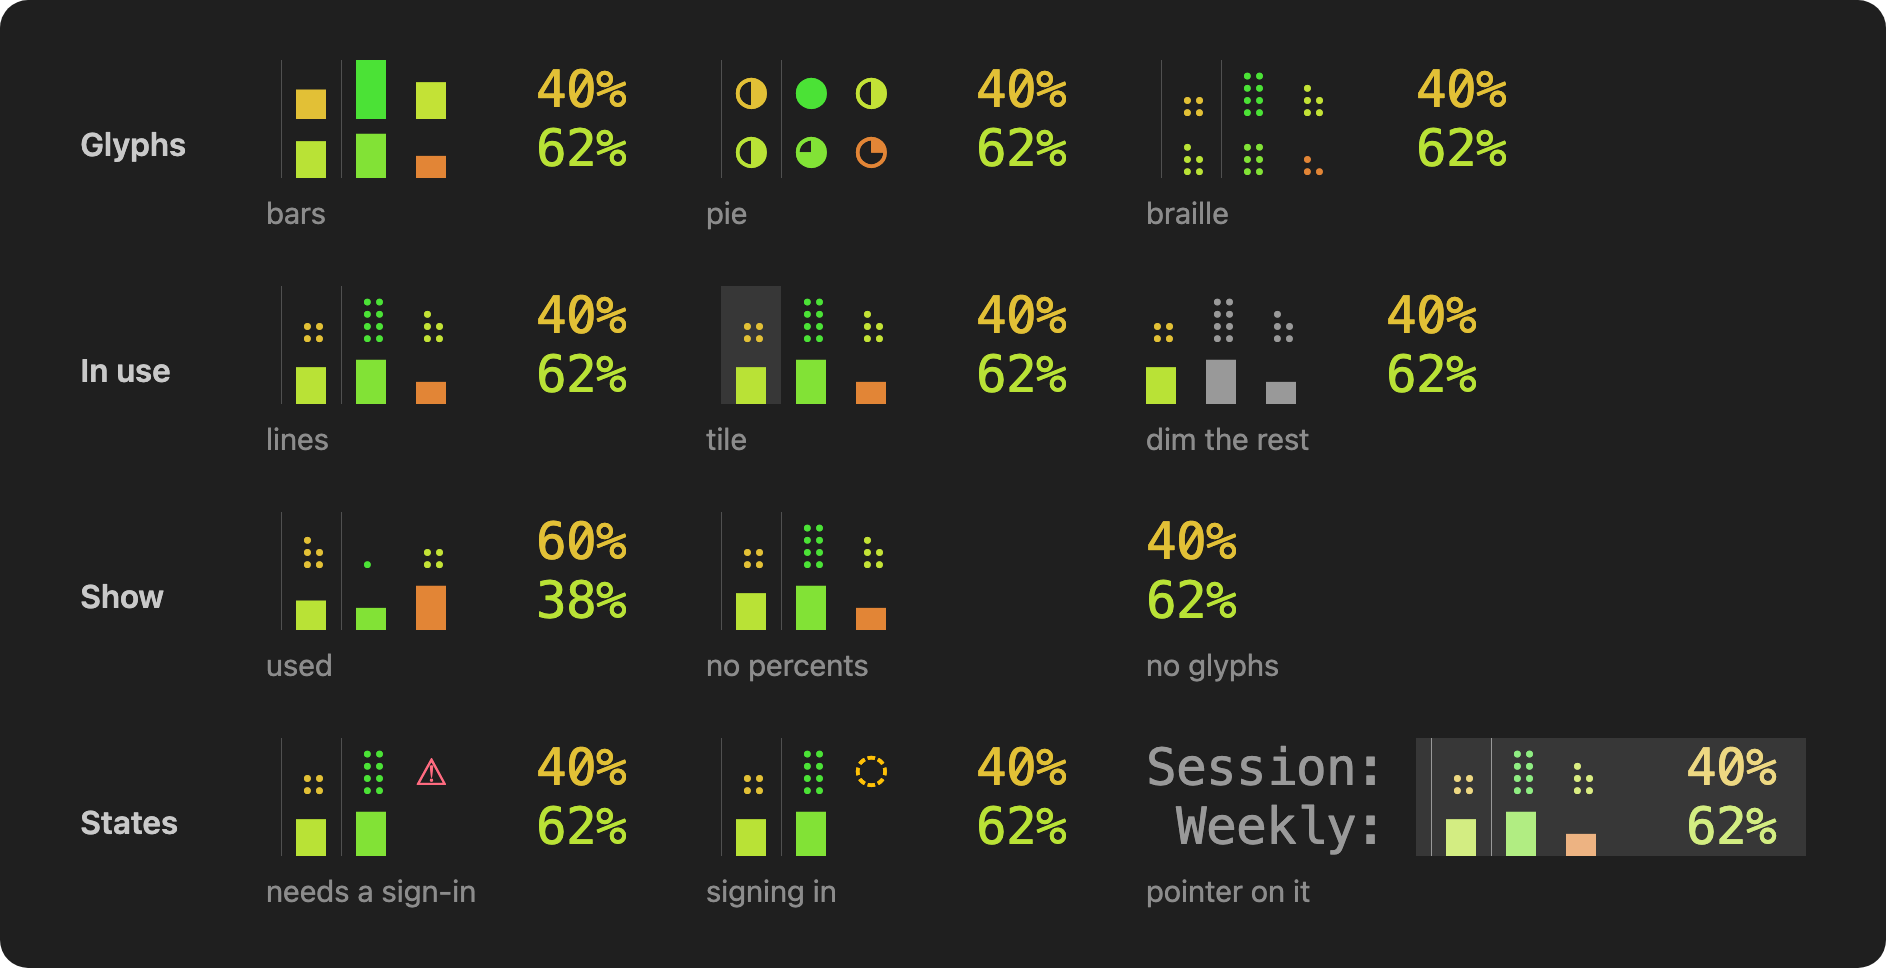
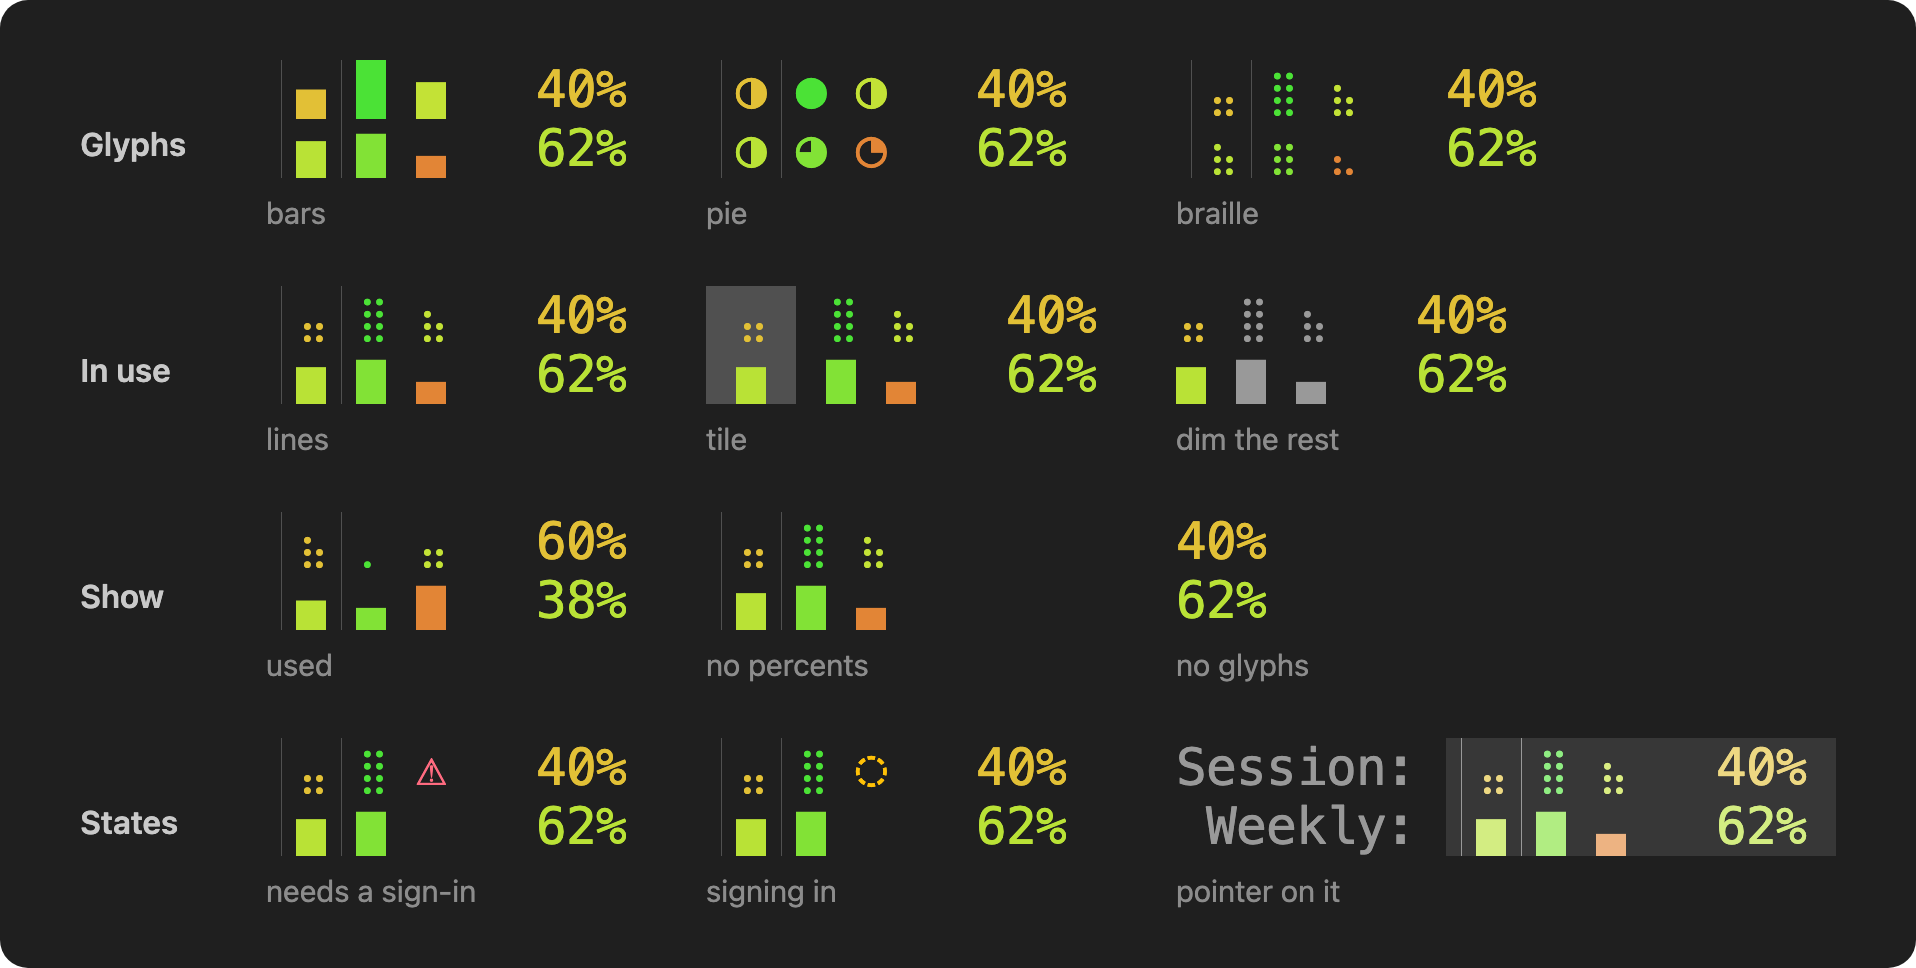
Tile in whole cells of a lighter gray, so it is a rectangle in Terminal.app
Terminal.app draws block characters from its font, short of the line, so the
tile's half-block sides came out shorter than its middle. The tile is now whole
cells either side of the column in use, then a space to the next column, and it
uses the theme's dim gray (the lines' color, lighter than the old shade in the
dark theme) and keeps that color under the pointer. The GIF and the looks image
are redrawn; the looks cropper now counts blank cells that have a color.

diff --git a/hooks/view.tsx b/hooks/view.tsx
@@ -61,8 +61,8 @@ function glyphOf(view: View, a: Account, style: Glyphs, row: 0 | 1, room: number
   return { text: glyph(style, shown(view.footer.fill, room)), ...roomRun(room) }
 }
 
-/** The tile's color: the theme's own shade behind a message the person sent. */
-const TILE = 'userMessageBackground'
+/** The tile's color: the theme's dim gray, the lines' own, which stands apart from the screen and from the shade under the pointer. */
+const TILE = 'subtle'
 /** The lines' color: the theme's dim gray, so they frame the column without outshining it; its lighter gray under the pointer. */
 const LINE = { color: 'subtle', lit: 'inactive' }
 
@@ -78,9 +78,6 @@ function marked(highlight: Highlight, isActive: boolean): Partial<FooterRun> {
   }
 }
 
-/** The highlights drawn in the cells either side of a column: every row keeps those cells. */
-const IN_GAPS: readonly Highlight[] = ['lines', 'tile']
-
 /** A row's room left for the account in use, or undefined where it has none. */
 function activeRoom(view: View, now: number, row: 0 | 1): number | undefined {
   const i = view.accounts.findIndex(a => a.id === view.activeId)
@@ -89,20 +86,28 @@ function activeRoom(view: View, now: number, row: 0 | 1): number | undefined {
 }
 
 /**
- * The cell before column `i`, or after the last one at `i` = the number of
- * accounts: a space between columns, nothing at the ends, unless the highlight
- * draws there. The lines stand mid-cell either side of the column in use, half
- * a cell clear of its glyphs; the tile pads it with half a cell of its shade
- * each side, in half blocks, which terminals draw to fill their cells as they
- * do the block characters of Claude Code's own logo.
+ * The cells before column `i`, or after the last one at `i` = the number of
+ * accounts: a space between columns, nothing at the ends, and the highlight's
+ * own. The lines stand mid-cell in the cells either side of the column in use,
+ * half a cell clear of its glyphs, so every row keeps a cell at each end. The
+ * tile pads the column with a cell of its shade each side, then the space to
+ * the next: whole cells, since a terminal that draws block characters from its
+ * font, as Terminal.app does, draws a half block short of the line, which
+ * notches the shade.
  */
-function edge(view: View, i: number, inGaps: boolean): FooterRun[] {
-  if (!inGaps) return i > 0 && i < view.accounts.length ? [{ text: ' ' }] : []
+function edge(view: View, i: number): FooterRun[] {
   const active = view.accounts.findIndex(a => a.id === view.activeId)
-  const isTile = view.footer.active === 'tile'
-  if (i === active) return [isTile ? { text: '▐', color: TILE } : { text: '│', ...LINE }]
-  if (i - 1 === active) return [isTile ? { text: '▌', color: TILE } : { text: '│', ...LINE }]
-  return [{ text: ' ' }]
+  const space: FooterRun[] = i > 0 && i < view.accounts.length ? [{ text: ' ' }] : []
+  switch (view.footer.active) {
+    case 'lines':
+      return [i === active || i - 1 === active ? { text: '│', ...LINE } : { text: ' ' }]
+    case 'tile': {
+      const pad: FooterRun = { text: ' ', backgroundColor: TILE }
+      return [...(i - 1 === active ? [pad] : []), ...space, ...(i === active ? [pad] : [])]
+    }
+    case 'dim':
+      return space
+  }
 }
 
 /**
@@ -113,23 +118,23 @@ function edge(view: View, i: number, inGaps: boolean): FooterRun[] {
  */
 function footerRow(view: View, now: number, row: 0 | 1, style: Glyphs, showPercent: boolean, hasColumns: boolean): FooterRun[] {
   const pct = activeRoom(view, now, row)
-  const inGaps = hasColumns && IN_GAPS.includes(view.footer.active)
+  const isLines = hasColumns && view.footer.active === 'lines'
   const columns = hasColumns
     ? [
         ...view.accounts.flatMap((a, i) => [
-          ...edge(view, i, inGaps),
+          ...edge(view, i),
           {
             ...(style === 'none' ? { text: ' ' } : glyphOf(view, a, style, row, rooms(view, a, i, now)[row])),
             ...marked(view.footer.active, a.id === view.activeId),
           },
         ]),
-        ...edge(view, view.accounts.length, inGaps),
+        ...edge(view, view.accounts.length),
       ]
     : []
-  // A cell of the hover shade left of the glyphs where no highlight keeps one before the first column.
-  const lead: FooterRun[] = inGaps ? [] : [{ text: ' ' }]
+  // A cell of the hover shade left of the glyphs where the lines keep none before the first column.
+  const lead: FooterRun[] = isLines ? [] : [{ text: ' ' }]
   if (!showPercent) return [...lead, ...columns]
-  const text = `${hasColumns ? (inGaps ? ' ' : '  ') : ''}${(pct === undefined ? '' : `${shown(view.footer.fill, pct)}%`).padStart(4)}`
+  const text = `${hasColumns ? (isLines ? ' ' : '  ') : ''}${(pct === undefined ? '' : `${shown(view.footer.fill, pct)}%`).padStart(4)}`
   return [...lead, ...columns, { text, ...(pct === undefined ? {} : roomRun(pct)) }]
 }
 
@@ -144,7 +149,7 @@ const widthOf = (row: readonly FooterRun[]) => row.reduce((n, run) => n + run.te
  * cell before the glyphs gives it at the left. Under the pointer a Button is
  * drawn inverted, its colors swapped, so each run's hover is given swapped: its
  * lighter color as the background, the shade as the color. Inverted, that is
- * the glyphs lit on the shade.
+ * the glyphs lit on the shade, and the tile's cells on their own color.
  */
 function runsText({ Text }: Ui, rows: readonly FooterRun[][]) {
   const width = Math.max(...rows.map(widthOf)) + 1
@@ -156,7 +161,7 @@ function runsText({ Text }: Ui, rows: readonly FooterRun[][]) {
           color={run.color}
           backgroundColor={run.backgroundColor}
           dimColor={run.dimColor}
-          hover={{ color: HOVER_SHADE, backgroundColor: run.lit ?? run.color ?? 'text', dimColor: false }}
+          hover={{ color: run.backgroundColor ?? HOVER_SHADE, backgroundColor: run.lit ?? run.color ?? 'text', dimColor: false }}
         >
           {run.text}
         </Text>

diff --git a/hooks/flow.test.tsx b/hooks/flow.test.tsx
@@ -108,11 +108,12 @@ function world(on: On, w: World, store: Record<string, unknown>): MockClock {
 const fresh = (): World => ({ keychain: {}, usage: {}, emails: {}, envSets: [], spawned: [], submitted: [], limits: [], panes: [], toasts: [] })
 const TWO_LOGINS = { accounts: [{ id: '1', slot: '', email: 'one@example.com' }, { id: '2', slot: SLOT2, email: 'two@example.com' }] }
 
-/** The props of every Text drawn with a color, its hover with them, in document order. */
+/** The props of every Text drawn with a color or on one, its hover with them, in document order. */
 function painted(node: unknown): Record<string, unknown>[] {
   if (typeof node !== 'object' || node === null) return []
   const { type, props, hover, children } = node as { type?: string; props?: Record<string, unknown>; hover?: unknown; children?: unknown[] }
-  const own = type === 'Text' && props?.color !== undefined ? [{ ...props, ...(hover === undefined ? {} : { hover }) }] : []
+  const isPainted = props?.color !== undefined || props?.backgroundColor !== undefined
+  const own = type === 'Text' && isPainted ? [{ ...props, ...(hover === undefined ? {} : { hover }) }] : []
   return [...own, ...(children ?? []).flatMap(painted)]
 }
 
@@ -404,17 +405,18 @@ test('the pane picks each footer row\'s style for every session, and previews it
   await clock.settle()
   await footer.redraw()
   expect((await footer.find(GLYPHS))?.text).toBe('│ │    85% \n│◕│◑       ')
-  // 'tile': the column in use on the theme's message background, padded half a cell each side.
+  // 'tile': the column in use on the theme's dim gray, a whole cell of it either side and a space from the next
+  // column, kept under the pointer, where it stands lighter than the shade.
   await pane.press({ key: 'footer-active-tile' })
   await clock.settle()
   await footer.redraw()
-  expect((await footer.find(GLYPHS))?.text).toBe('▐ ▌    85% \n▐◕▌◑       ')
-  const [padBefore, tiledOne, padAfter, tiledTwo] = painted((await footer.find(GLYPHS))?.children[2])
-  expect(padBefore).toMatchObject({ color: 'userMessageBackground' })
-  expect(tiledOne).toMatchObject({ color: roomColor(70), backgroundColor: 'userMessageBackground' })
-  expect(padAfter).toMatchObject({ color: 'userMessageBackground' })
-  expect(tiledTwo).toMatchObject({ color: roomColor(40) })
-  expect(tiledTwo?.backgroundColor).toBeUndefined()
+  expect((await footer.find(GLYPHS))?.text).toBe('         85% \n  ◕  ◑       ')
+  const [padBefore, tiledOne, padAfter, untiled] = painted((await footer.find(GLYPHS))?.children[2])
+  expect(padBefore).toMatchObject({ backgroundColor: 'subtle', hover: { color: 'subtle' } })
+  expect(tiledOne).toMatchObject({ color: roomColor(70), backgroundColor: 'subtle', hover: { color: 'subtle', backgroundColor: roomColor(70, true) } })
+  expect(padAfter).toMatchObject({ backgroundColor: 'subtle', hover: { color: 'subtle' } })
+  expect(untiled).toMatchObject({ color: roomColor(40), hover: { color: 'userMessageBackground' } })
+  expect(untiled?.backgroundColor).toBeUndefined()
   // 'dim the rest': no marks beside the columns, the logins not in use dimmed.
   await pane.press({ key: 'footer-active-dim' })
   await clock.settle()
